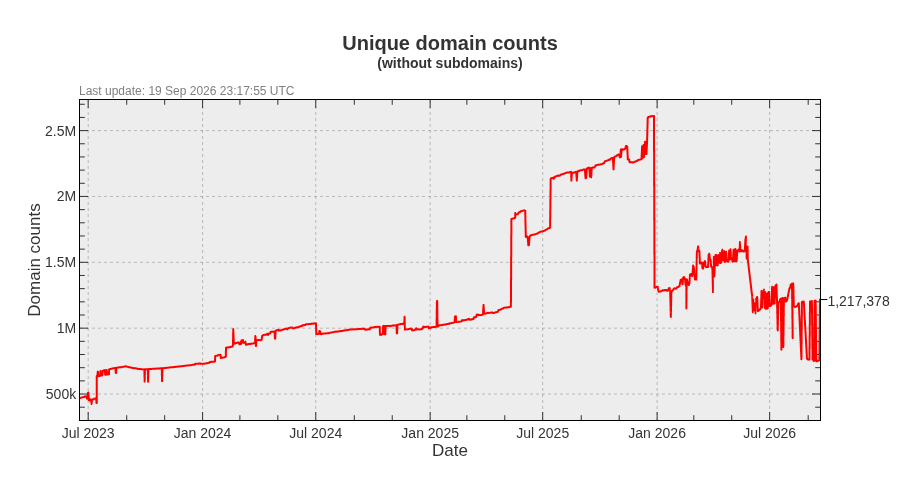
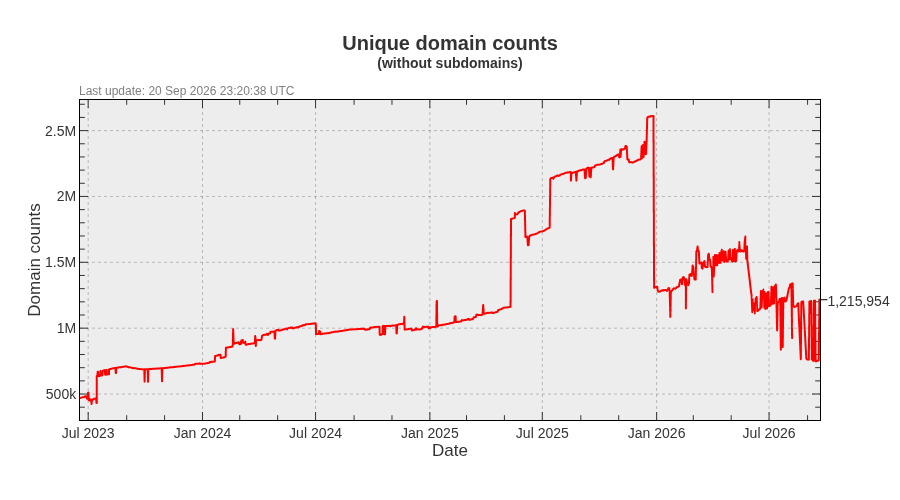
Update pages

diff --git a/README.md b/README.md
@@ -3,22 +3,22 @@ A blocklist file for blocking ads, trackers and malware domains.
 
[1 lines of base64/hex data omitted]
 
-- Unique domains: 1,999,704
-- Without subdomains: 1,217,378
-- Last update: 19 Sep 2026 23:17:55 UTC
-- Version: 2026.09.19.01
+- Unique domains: 1,998,245
+- Without subdomains: 1,215,954
+- Last update: 20 Sep 2026 23:20:38 UTC
+- Version: 2026.09.20.01
 
 
 ## Downloads:
 
 | Format             | Domain count      | Download Link |
 |------------------ | -----------------|-------------|
-| *Adblock Plus*     | 1,217,378 | [bad-hosts-abp](https://dl.cenk.app/bad-hosts/bad-hosts-abp) |
-| *Wildcard domains* | 1,217,378 | [bad-hosts-wildcard](https://dl.cenk.app/bad-hosts/bad-hosts-wildcard) |
-| *dnsmasq*          | 1,217,378 | [bad-hosts-dnsmasq](https://dl.cenk.app/bad-hosts/bad-hosts-dnsmasq) |
-| *hosts*            | 1,999,704 | [hosts](https://dl.cenk.app/bad-hosts/hosts) |
-| *hosts (ipv6)*     | 1,999,704 | [hosts-ipv6](https://dl.cenk.app/bad-hosts/hosts-ipv6) |
-| *Plain domains*    | 1,999,704 | [bad-hosts-domains](https://dl.cenk.app/bad-hosts/bad-hosts-domains) |
+| *Adblock Plus*     | 1,215,954 | [bad-hosts-abp](https://dl.cenk.app/bad-hosts/bad-hosts-abp) |
+| *Wildcard domains* | 1,215,954 | [bad-hosts-wildcard](https://dl.cenk.app/bad-hosts/bad-hosts-wildcard) |
+| *dnsmasq*          | 1,215,954 | [bad-hosts-dnsmasq](https://dl.cenk.app/bad-hosts/bad-hosts-dnsmasq) |
+| *hosts*            | 1,998,245 | [hosts](https://dl.cenk.app/bad-hosts/hosts) |
+| *hosts (ipv6)*     | 1,998,245 | [hosts-ipv6](https://dl.cenk.app/bad-hosts/hosts-ipv6) |
+| *Plain domains*    | 1,998,245 | [bad-hosts-domains](https://dl.cenk.app/bad-hosts/bad-hosts-domains) |
 
 ## Domain count history
 ### With subdomains
